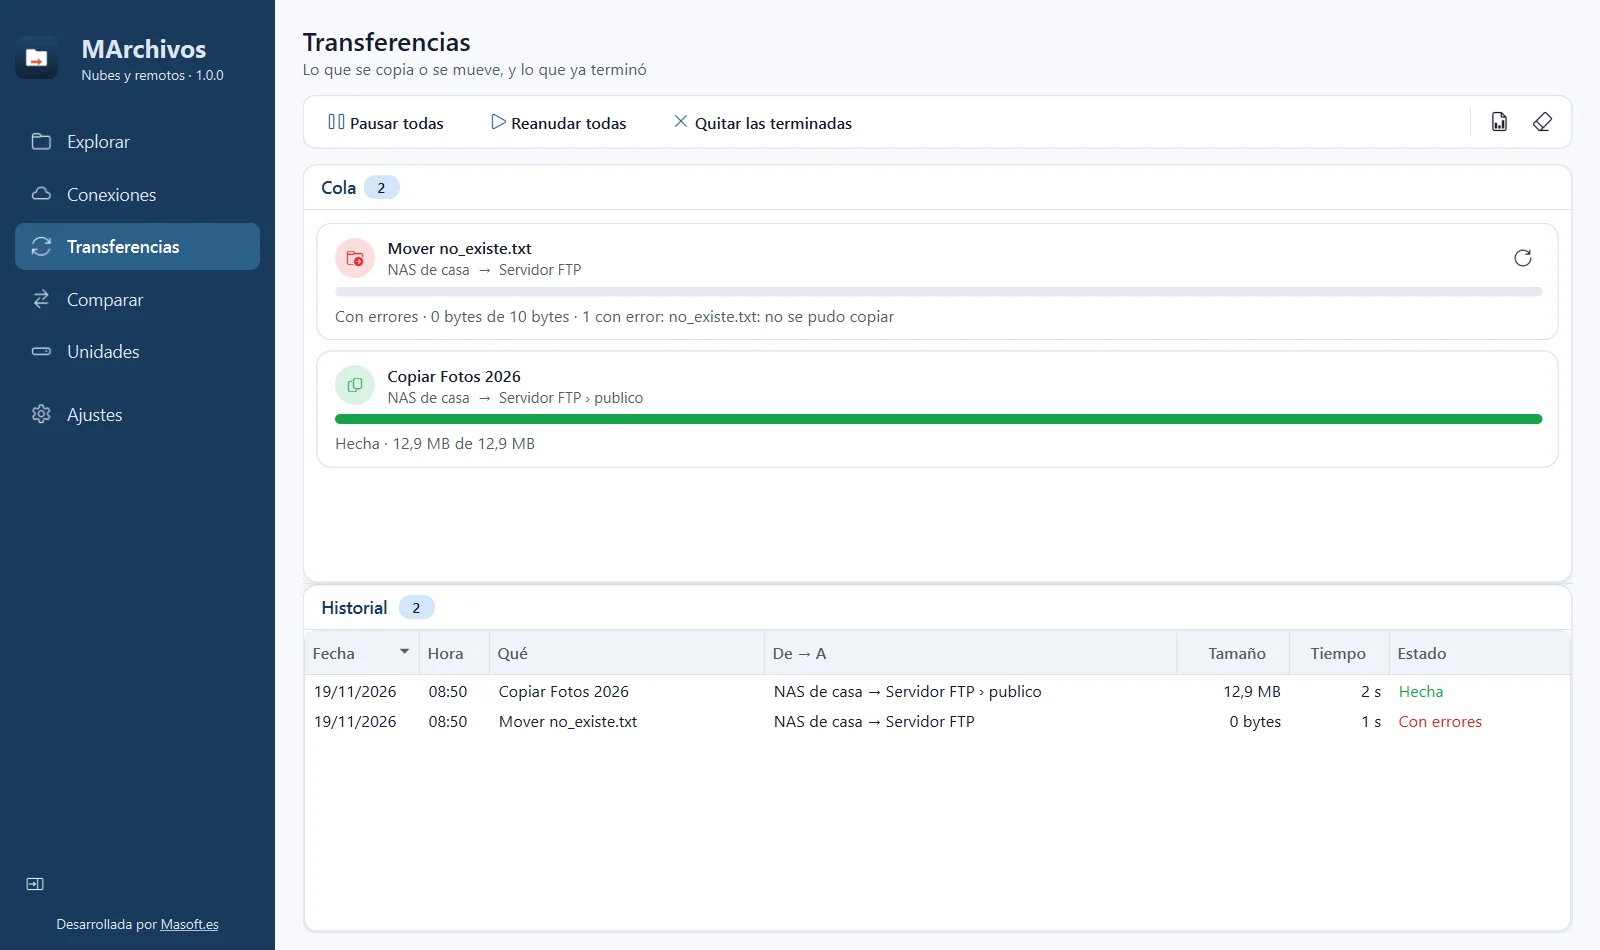
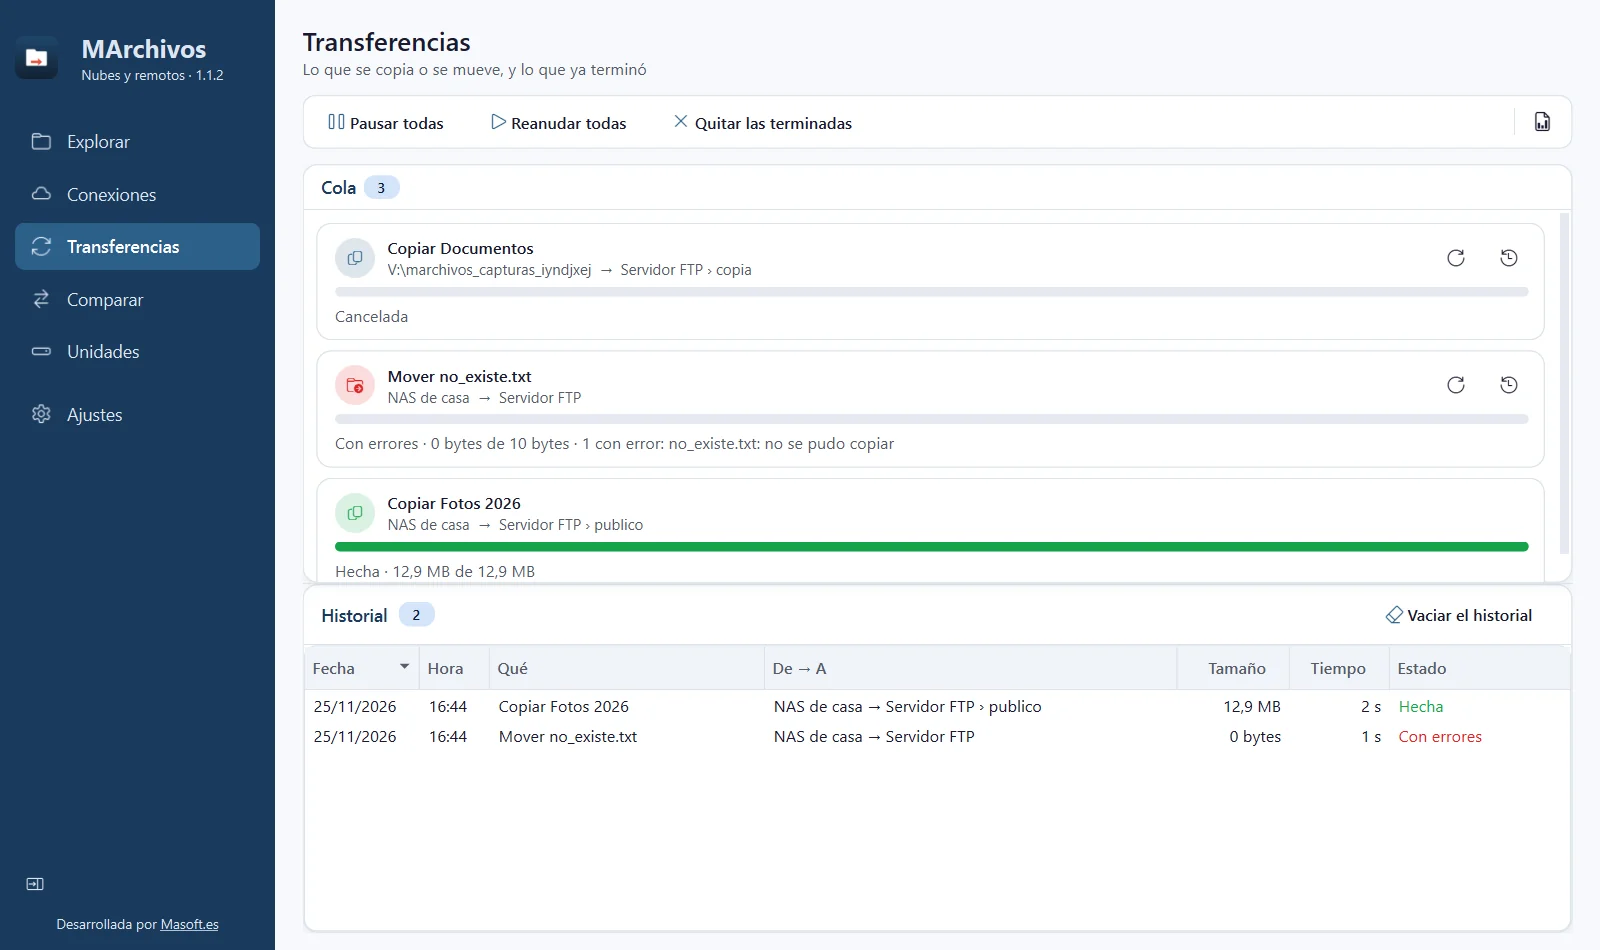
MArchivos: Windows (instalador y ejecutable único) y Android

diff --git a/README.md b/README.md
@@ -4,7 +4,7 @@ Gestor de archivos para el ordenador y el móvil: tus nubes, tus servidores (car
 
 **Aplicación gratuita para Windows y Android desarrollada por [Masoft.es](https://masoft.es)**
 
-- **Windows 1.0.0:** [instalador](https://github.com/MaSoft/MArchivos/releases/download/escritorio-v1.0.0/MArchivos_Setup_v1.0.0.exe) o [ejecutable único](https://github.com/MaSoft/MArchivos/releases/download/escritorio-v1.0.0/MArchivos_v1.0.0.exe)
+- **Windows 1.1.2:** [instalador](https://github.com/MaSoft/MArchivos/releases/download/escritorio-v1.1.2/MArchivos_Setup_v1.1.2.exe) o [ejecutable único](https://github.com/MaSoft/MArchivos/releases/download/escritorio-v1.1.2/MArchivos_v1.1.2.exe)
 - **Android 1.4.5:** [APK](https://github.com/MaSoft/MArchivos/releases/download/android-v1.4.5/MArchivos-1.4.5.apk)
 
 Más información y los manuales también en [masoft.es](https://masoft.es/descargas.html#marchivos).
@@ -13,22 +13,22 @@ Más información y los manuales también en [masoft.es](https://masoft.es/desca
 
 Son dos aplicaciones independientes con el mismo nombre: cada una da de alta sus propias nubes y servidores, y el PC y el móvil no se sincronizan entre sí.
 
-## Windows 1.0.0
+## Windows 1.1.2
 
-**Windows 10 / 11 · 64 bits** · [Página de la versión](https://github.com/MaSoft/MArchivos/releases/tag/escritorio-v1.0.0)
+**Windows 10 / 11 · 64 bits** · [Página de la versión](https://github.com/MaSoft/MArchivos/releases/tag/escritorio-v1.1.2)
 
[4 lines of base64/hex data omitted]
 
 ### Qué hace
 - Dos paneles, cada uno en una nube (OneDrive, Google Drive, Dropbox, Box, pCloud, Yandex Disk, MEGA, S3), un servidor o una unidad de tu equipo.
 - Copiar y mover entre todo con botones, clic derecho o arrastrando de un panel al otro.
 - Siempre comprobado: al terminar se mira el destino de verdad y, al mover, el original solo se quita si llegó igual.
 - Copia en el servidor: dentro de la misma conexión los datos no pasan por tu equipo.
-- Cola de transferencias con avance, velocidad y tiempo restante; pausar, reanudar, reintentar, historial e informe HTML.
-- Comparar dos carpetas (solo en A, solo en B, distinto e igual) y copiar a mano lo que marques.
+- Cola de transferencias con avance, velocidad y tiempo restante; pausar, reanudar, reintentar o descartar, historial e informe HTML.
+- Comparar dos carpetas (solo en A, solo en B, distinto e igual) con su avance, aunque tengan cientos de miles de archivos; copiar lo que marques o borrar de A o de B lo que sobra.
 - Una nube o un servidor como letra de unidad en el Explorador.
-- Espacio usado y libre de cada nube, enlace para compartir, vista previa de imágenes y texto, y favoritos.
+- Espacio usado y libre de cada nube, tamaño de cualquier carpeta, enlace para compartir, vista previa de imágenes y texto, y favoritos.
 - Buscar en la red los equipos con carpetas compartidas, SFTP o FTP.
 - Conexiones cifradas que solo abre tu usuario de Windows en ese equipo.
 
@@ -46,7 +46,7 @@ Son dos aplicaciones independientes con el mismo nombre: cada una da de alta sus
 | | |
 |---|---|
 | ![Dos paneles](capturas/02-pc-pc_explorar.webp)<br>**Dos paneles.** Tu equipo a un lado y el servidor al otro: copiar o mover arrastrando. | ![Conexiones](capturas/03-pc-pc_conexiones.webp)<br>**Conexiones.** Nubes y servidores; se añaden eligiendo el tipo. |
-| ![Transferencias](capturas/04-pc-pc_transferencias.webp)<br>**Transferencias.** Cola con avance, historial y estado de cada una. | ![Comparar](capturas/05-pc-pc_comparar.webp)<br>**Comparar.** Qué está solo en una carpeta, qué es distinto y qué es igual. |
+| ![Transferencias](capturas/04-pc-pc_transferencias.webp)<br>**Transferencias.** Cola con avance, historial y estado de cada una. | ![Comparar](capturas/05-pc-pc_comparar.webp)<br>**Comparar.** Qué está solo en una carpeta, qué es distinto y qué es igual, con su avance. |
 
 ## Android 1.4.5
 
